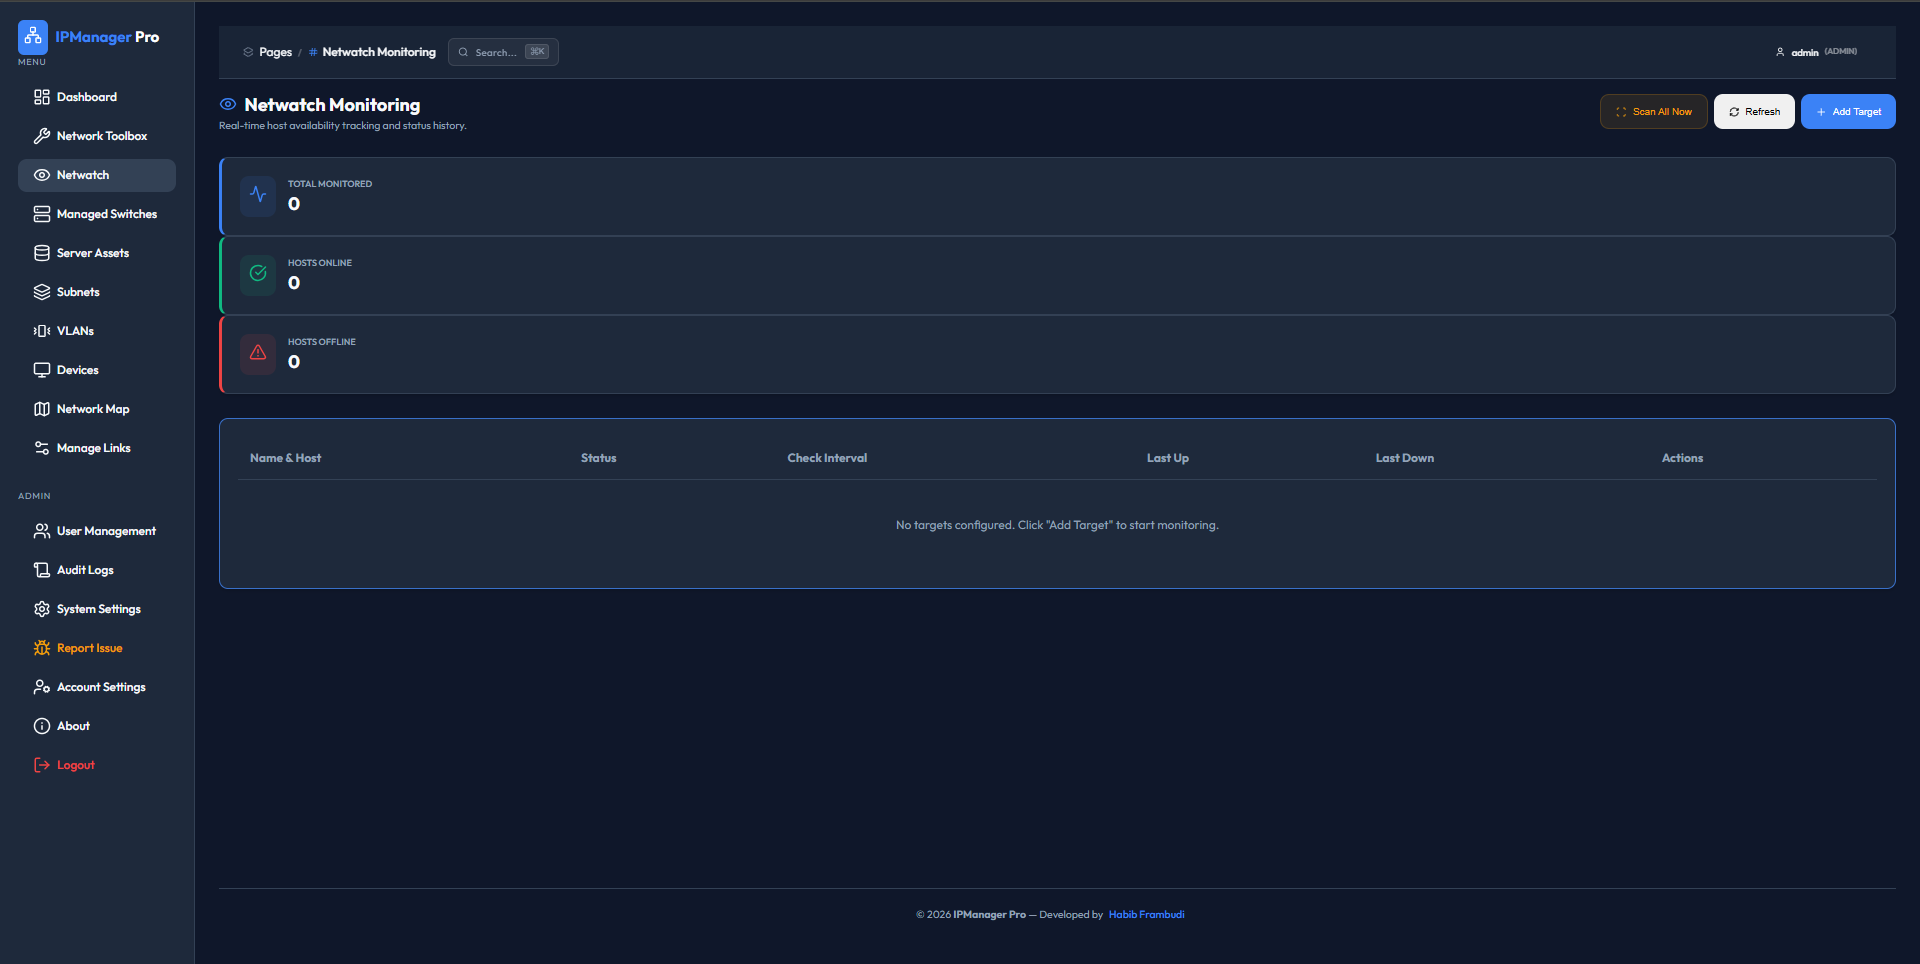
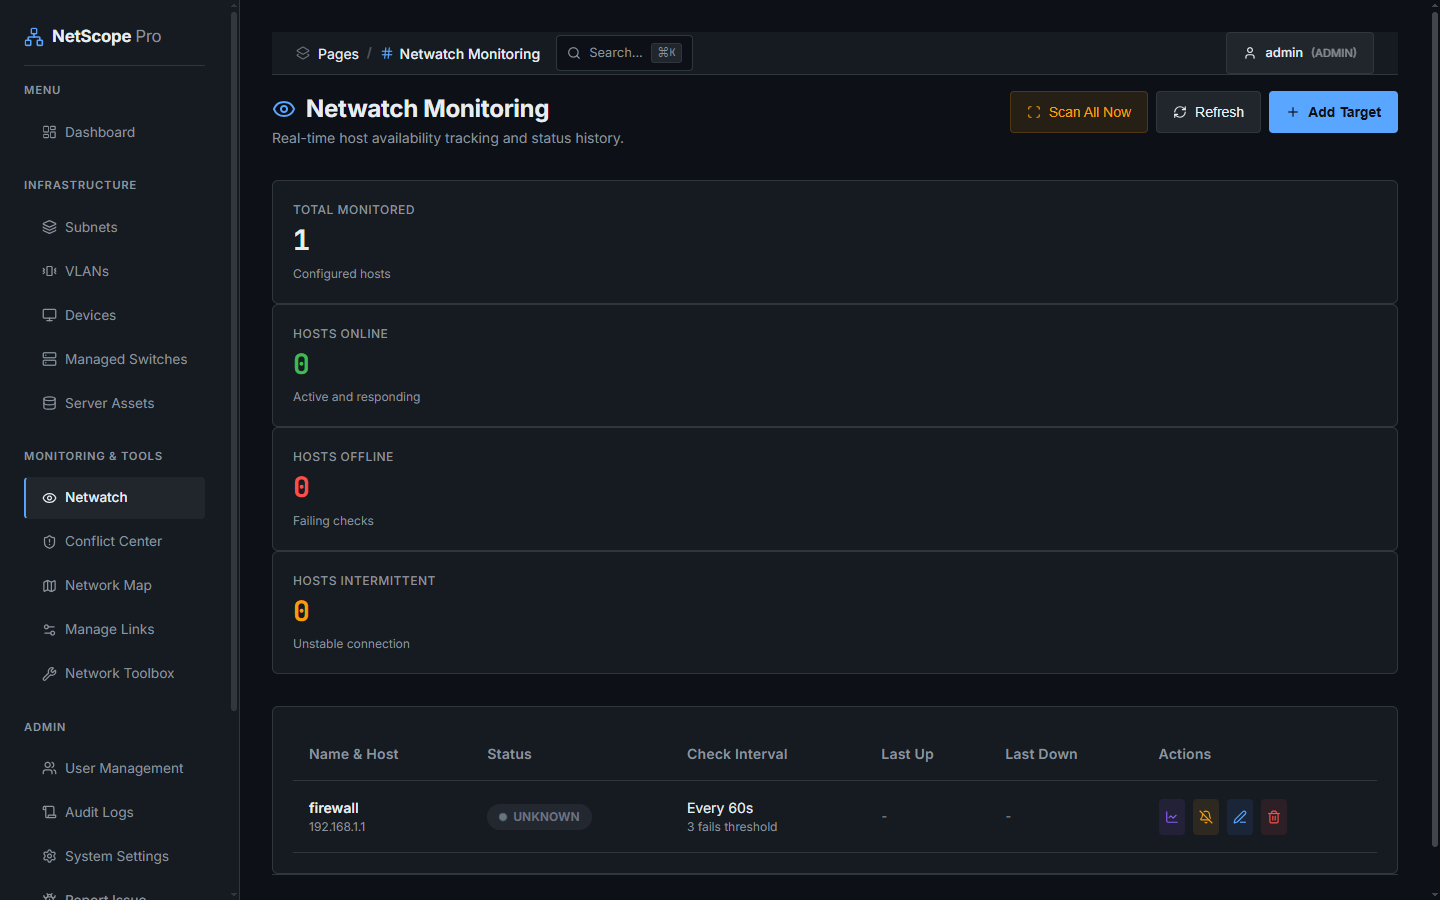
docs: refine README with IPAM-first positioning, diagnostic intelligence, clean architecture, and fresh screenshots

diff --git a/README.md b/README.md
@@ -1,155 +1,139 @@
-# 🚀 NetScope Pro: Enterprise IPAM & Active Network Monitoring
+# NetScope Pro
 
-<div align="center">
-  <img src="https://raw.githubusercontent.com/frambudi75/NetScopePro/main/screenshots/dashboard.png" alt="NetScope Pro Dashboard" width="800">
-  <p><i>Premium Enterprise IP Address Management & Active NMS for Modern Networks.</i></p>
-</div>
+> IPAM & Network Intelligence for Infrastructure Teams
 
----
+[![Release](https://img.shields.io/badge/release-v2.31.1-blue.svg)](https://github.com/frambudi75/NetScopePro/releases)
+[![PHP](https://img.shields.io/badge/php-8.1%20%7C%208.2-777bb4.svg)](https://www.php.net/)
+[![Database](https://img.shields.io/badge/database-MariaDB%20%7C%20MySQL-orange.svg)](https://mariadb.org/)
+[![License](https://img.shields.io/badge/license-MIT-green.svg)](LICENSE)
 
-NetScope Pro is a modern, high-speed **IP Address Management (IPAM)** and **Infrastructure Monitoring** platform. It provides real-time visibility into your network subnets, device health, and physical connectivity with a stunning dark-mode interface.
+NetScope Pro is an **IP Address Management (IPAM)** platform with built-in network intelligence. It combines core subnet tracking and IP lifecycle allocation with live Layer-2 physical switch port mapping, automated IP conflict forensics, and Spanning Tree loop diagnostics.
 
 ---
 
 ## 🏗 System Architecture
 
-How NetScope Pro maintains its high-accuracy network map:
-
 ```mermaid
 graph TD
-    A[Scanner Engine] -->|Parallel Workers| B(Ping / Nmap / ARP / Port Probe)
-    C[Health Poller] -->|SNMP| D(CPU / RAM / Uptime)
-    E[Switch Poller] -->|L3 ARP Cache| F(MAC-Port-IP Mapping)
-    NW[Netwatch Engine] -->|ICMP| NW_ALERT(Telegram / Email)
-    G[(Central Intelligence DB)]
-    R[(Redis Caching)]
-    B -->|Found Hosts| G
-    D -->|Health Stats| G
-    F -->|Port Locations| G
-    NW -->|Down Events| G
-    G <--> R
-    R --> H[Premium Dashboard]
+    A[Scanner Engine] -->|ARP / ICMP / Nmap| E[Worker Pool]
+    B[Health Poller] -->|SNMP CPU / RAM / Uptime| E
+    C[Switch Poller] -->|SNMP FDB / Bridge / STP| E
+    D[Netwatch Engine] -->|ICMP Availability| E
+    E -->|State & Telemetry| DB[(MariaDB / MySQL)]
+    DB <--> Cache[(Redis Cache)]
+    DB --> UI[NetScope Pro Web Console]
+    E -->|Triggers & Events| Alert[Alert Dispatcher: Telegram / Webhooks / SMTP]
 ```
 
 ---
 
-## ✨ Key Features
+## 🔎 Network Diagnostics & Root Cause Analysis
 
-### 📡 Active Netwatch Monitoring (New in v2.18.0)
+NetScope Pro does not just alert you when an anomaly occurs; it correlates L2/L3 evidence to identify where and why:
 
-- **Proactive Uptime Tracking**: Inspired by MikroTik Netwatch, monitor any host availability via highly configurable ICMP pings.
-- **Multi-Channel Alerts**: Instant notifications via **Telegram Bot** and **Email** when a host goes DOWN or comes back UP.
-- **Smart Thresholds**: Set failure counts before triggering an alert to avoid false positives on unstable links.
-- **State-Change Logging**: Automated audit trail for every status change, integrated with the central logging system.
+### 1. IP Conflict & MAC Flap Center
+- **Dual-Host Forensic Comparison**: Side-by-side card comparing incumbent host vs new claimant (MAC, OUI Vendor, physical switch port, VLAN, hostname, and ping responsiveness).
+- **Trunk-Aware Flapping Analysis**: Distinguishes normal multi-switch uplink propagation from true IP/MAC collision and ARP thrashing.
+- **1-Click Resolution**: Direct administrative actions from the alert row (Resolve, Accept New Host, or Acknowledge) with audit logging.
 
-### 🔍 Advanced Discovery & IPAM (v2.23.0 Enhanced)
-
-- **Enterprise OS Fingerprinting**: High-accuracy detection via **Nmap** (Windows, Linux, IoT).
-- **Anti-Ghost Engine**: Strict ARP/MAC validation to prevent false positives in subnet discovery.
-- **Parallel Subnet Scanning**: High-speed discovery with multiple background workers for large-scale networks.
-- **Physical Port Mapping & SFP/DOM**: Trace MAC addresses directly to physical switch ports, VLANs, and monitor transceiver details (vendor, serial number, RX/TX optical power).
-
-### 🔄 L2 Switching Loop & STP Discovery Engine (New in v2.27.0)
-
-- **Spanning Tree (STP/RSTP) State Polling**: Real-time SNMP polling of `dot1dStp` MIB to identify Root Bridge, root path cost, and per-port STP operational states (`forwarding`, `blocking`, `learning`, `disabled`).
-- **Loop Mitigation Guard Detection**: Automatically flags ports placed in `BLOCKING` state by switch STP to isolate physical loops and prevent broadcast storms.
-- **FDB MAC Thrashing / Flapping**: Detects rapid MAC alternating between ports on the same switch to identify loops on unmanaged switches or ports without STP.
-- **Topology Change Monitoring**: Tracks Spanning Tree Topology Change Notifications (TCN) and time elapsed since last topology change to alert on link instability.
-- **Interactive L2 Loop Prober**: 6-phase live diagnostic tool in `tools.php` to verify switch bridge architecture, STP configuration, and port loop status.
-
-### 🛡 Enterprise IP Conflict Detection Engine (New in v2.26.0 / v2.27.0)
-
-- **Collision & Flapping Identification**: Real-time identification of duplicate IP assignments and MAC flapping across subnets.
-- **Smart OS Family Classifier**: Classifies OS fingerprints into broad families (Windows, Linux, BSD, Cisco, MikroTik) to eliminate false positives on multi-guess Nmap detections.
-- **Trunk-Aware L2 Mapping**: Intelligent switch port analysis that distinguishes normal multi-switch uplink/trunk propagation from true IP/MAC conflicts.
-- **Interactive Conflict Prober**: Multi-probe ICMP TTL variance analysis, ARP integrity verification, and physical switch port cross-referencing in `tools.php`.
-- **NOC Alert Banners**: Prominent, real-time alert banners on the main dashboard for immediate visibility into IP collisions and L2 loops.
-
-### 📲 Multi-Channel Alert Engine (New in v2.28.0)
-
-- **Real-Time Telegram Alerts**: Instant dispatch for critical events: L2 Switching Loops, STP Blocked Ports, Netwatch Host Down/Recovery, IP Collisions, and SFP Optical Degradation.
-- **Granular Event Toggles**: Independent settings to toggle specific alert categories (Loops, Netwatch, Conflicts, SFP, New Devices).
-- **Anti-Spam & Intelligent Cooldown**: Lock-based throttling prevents notification storms during persistent network flapping.
-- **Multi-Platform Support**: Unified dispatcher with support for Telegram Bot API, Discord Webhooks, Slack Webhooks, and Authenticated SMTP Email.
-
-### 📈 Live Port Bandwidth & Traffic Graph (New in v2.28.0)
-
-- **SNMP 64-bit Throughput Counters**: Live and historical Inbound/Outbound traffic monitoring (Mbps) polled from standard `ifHCInOctets` / `ifHCOutOctets`.
-- **Interactive Visual Throughput**: Dual-tone gradient Chart.js area graphs with responsive time range selectors (1h, 6h, 24h, 48h).
-- **Instant Port Action Pills**: Direct 1-click access to traffic analysis for any physical switch interface with smooth viewport centering.
-- **Live KPI Metrics**: Real-time aggregation of Current, Peak, and Average bandwidth per port.
-
-### 📊 Real-time Visualization
-
-- **Live SNMP Tracking**: Streaming CPU, Memory, & Uptime data via _Server-Sent Events (SSE)_.
-- **Interactive Analytics**: Chart.js integration for historical performance trends (1h to 48h).
-- **Premium UI**: Sleek dark-mode interface with glassmorphism effects, powered by Lucide Icons.
+### 2. Layer-2 Loop & STP Diagnostics
+- **Spanning Tree Protocol (STP/RSTP) State Polling**: Queries `dot1dStp` MIB tables to identify Root Bridge, root path cost, and per-port operational states (`forwarding`, `blocking`, `learning`).
+- **Loop Mitigation Guard**: Identifies ports blocked by switch STP to isolate loops before broadcast storms escalate.
+- **Inactive Link Filtering**: Automatically checks operational link status (`ifOperStatus`) to prevent false-positive alarms on unplugged ports.
+- **Interactive L2 Loop Prober**: 6-phase diagnostic tool verifying bridge architecture, STP configuration, and topology change notifications (TCN).
 
 ---
 
 ## 📸 Screenshots
 
-<div align="center">
-  <table style="width:100%">
-    <tr>
-      <td width="50%"><img src="screenshots/dashboard.png" alt="Main Dashboard"/></td>
-      <td width="50%"><img src="screenshots/netwatch.png" alt="Netwatch Module"/></td>
-    </tr>
-  </table>
-</div>
+| NOC Operations Dashboard | IPAM Subnet Management |
+| :---: | :---: |
+| ![NOC Operations Dashboard](screenshots/dashboard.png) | ![IPAM Subnet Management](screenshots/subnets.png) |
+
+| IP Conflict & Flap Center | L2 Loop & STP Diagnostics |
+| :---: | :---: |
+| ![IP Conflict & Flap Center](screenshots/conflicts.png) | ![L2 Loop & STP Diagnostics](screenshots/tools.png) |
+
+| Netwatch Host Monitoring | Layer-2 Topology Map |
+| :---: | :---: |
+| ![Netwatch Host Monitoring](screenshots/netwatch.png) | ![Layer-2 Topology Map](screenshots/topology.png) |
 
 ---
 
-## ⚙ Minimum Requirements
+## ✨ Core Features
 
-For smooth real-time monitoring and high-speed parallel scanning:
+### 📋 IP Address Management (IPAM)
+- **Subnet Allocation & CIDR Hierarchy**: Visual utilization progress bars, address status tracking (Allocated, Reserved, Dynamic, Offline), and gateway/DNS management.
+- **IP Intelligence Dossier (360° View)**: Single-click modal correlating IP &rarr; MAC &rarr; Switch Port &rarr; Vendor &rarr; SFP Optical telemetry.
+- **Universal Search (`Ctrl+K` / `Cmd+K`)**: Rapid indexed search across subnets, switches, hosts, and IP records.
+- **VLAN Management**: Track 802.1Q VLAN IDs, subnet bindings, and descriptions.
+
+### 🔌 Switch Fabric & Physical Port Mapping
+- **MAC-to-Port Correlation**: Tracks which physical port (`etherX`, `GigabitEthernetX`) each device is plugged into via SNMP FDB bridge tables.
+- **SFP / Optical DOM Monitoring**: Displays transceiver vendor, part numbers, RX/TX optical signal levels, and temperatures.
+- **Bandwidth & Port Telemetry**: Live and historical throughput counters (`ifHCInOctets` / `ifHCOutOctets`) with time-range charts.
+
+### 📡 Proactive Netwatch Monitoring
+- **Availability Tracking**: High-frequency ICMP polling with configurable failure count thresholds.
+- **Multi-Channel Dispatcher**: Real-time notifications via **Telegram Bot**, Discord, Slack webhooks, and SMTP email.
+- **State Change Audit**: Automated logging of every host status transition.
+
+---
+
+## ⚡ Quick Start
+
+### Docker (Recommended)
+
+1. Clone the repository:
+   ```bash
+   git clone https://github.com/frambudi75/NetScopePro.git
+   cd NetScopePro
+   ```
+
+2. Start the stack:
+   ```bash
+   docker compose up -d
+   ```
+
+3. Open your browser:
+   ```text
+   http://localhost:2025
+   ```
+
+### Default Credentials
+- **Username**: `admin`
+- **Password**: `admin123`  
+*(Change default credentials in Settings immediately after first login)*
+
+---
+
+## 📚 Documentation
+
+- [Docker Deployment Guide](DOCKER_INSTALL.md)
+- [Docker with SSL / Reverse Proxy](DOCKER_SSL.md)
+- [Bare-Metal / Standalone (XAMPP & Linux) Installation](STANDALONE_INSTALL.md)
+- [Release History & Detailed Changelog](CHANGELOG.md)
+
+---
+
+## ⚙ System Requirements
 
 ### Hardware
+- **CPU**: 1 vCPU (2.0 GHz) minimum | 2 vCPU+ recommended for large subnets
+- **RAM**: 1 GB free RAM | 2 GB+ recommended
+- **Network**: 100 Mbps minimum | 1 Gbps recommended for low-latency SNMP sweeps
 
-- **CPU**: 1 vCPU (2.0GHz) Minimum | 2 vCPU+ Recommended.
-- **RAM**: 1 GB Free RAM | 2 GB+ Recommended.
-- **Network**: 100 Mbps | 1 Gbps (Low latency SNMP).
-
-### Software (detailed in requirements.txt)
-
+### Software
 - **PHP**: 8.1 or 8.2+
-- **Database**: MariaDB 10.6+ / MySQL 8.0+
-- **Tools**: `nmap` (required for OS detection), `traceroute`, `iputils-ping`
+- **Database**: MariaDB 10.6+ or MySQL 8.0+
+- **Dependencies**: `nmap`, `fping` / `iputils-ping`, `net-snmp`
 
 ---
 
-## ⚡ Installation
-
-### Option 1: Docker (Recommended)
-
-1. Refer to [Docker Install Guide](DOCKER_INSTALL.md).
-2. Run: `docker-compose up -d`
-3. Access: `http://localhost:2025`
-
-### Option 2: XAMPP / Linux (Manual)
-
-1. Refer to [Standalone Install Guide](STANDALONE_INSTALL.md).
-2. Import `sql/database.sql` to your database.
-3. Access: `http://localhost/NetScopePro`
-
----
-
-## 🔐 Default Credentials
-
-- **Username**: `admin`
-- **Password**: `admin123`
-  _(Please change your password immediately after first login)_
-
----
-
-## 👨💻 Author & Support
+## 👨💻 Author & License
 
 **Habib Frambudi**  
-If this project saves you time, consider supporting the developer:
+- GitHub: [@frambudi75](https://github.com/frambudi75)
+- Support: [saweria.co/Habibframbudi](https://saweria.co/Habibframbudi) | PayPal: `habibframbudi@gmail.com`
 
-- **Saweria (IDR)**: [saweria.co/Habibframbudi](https://saweria.co/Habibframbudi)
-- **PayPal (USD)**: `habibframbudi@gmail.com`
-
----
-
-_Powered by **Vanilla CSS**, **Lucide Icons**, and **Chart.js**._
+Distributed under the [MIT License](LICENSE).
